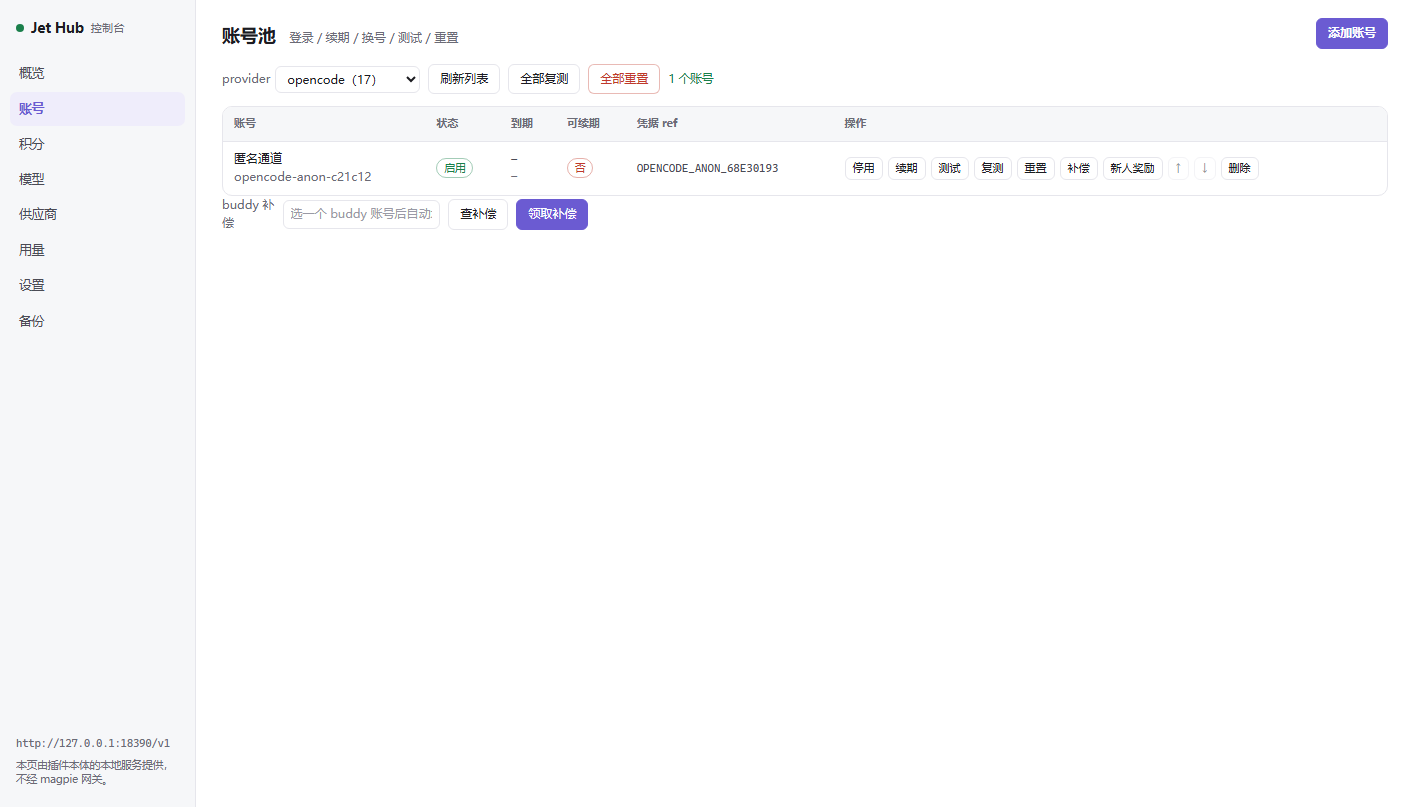
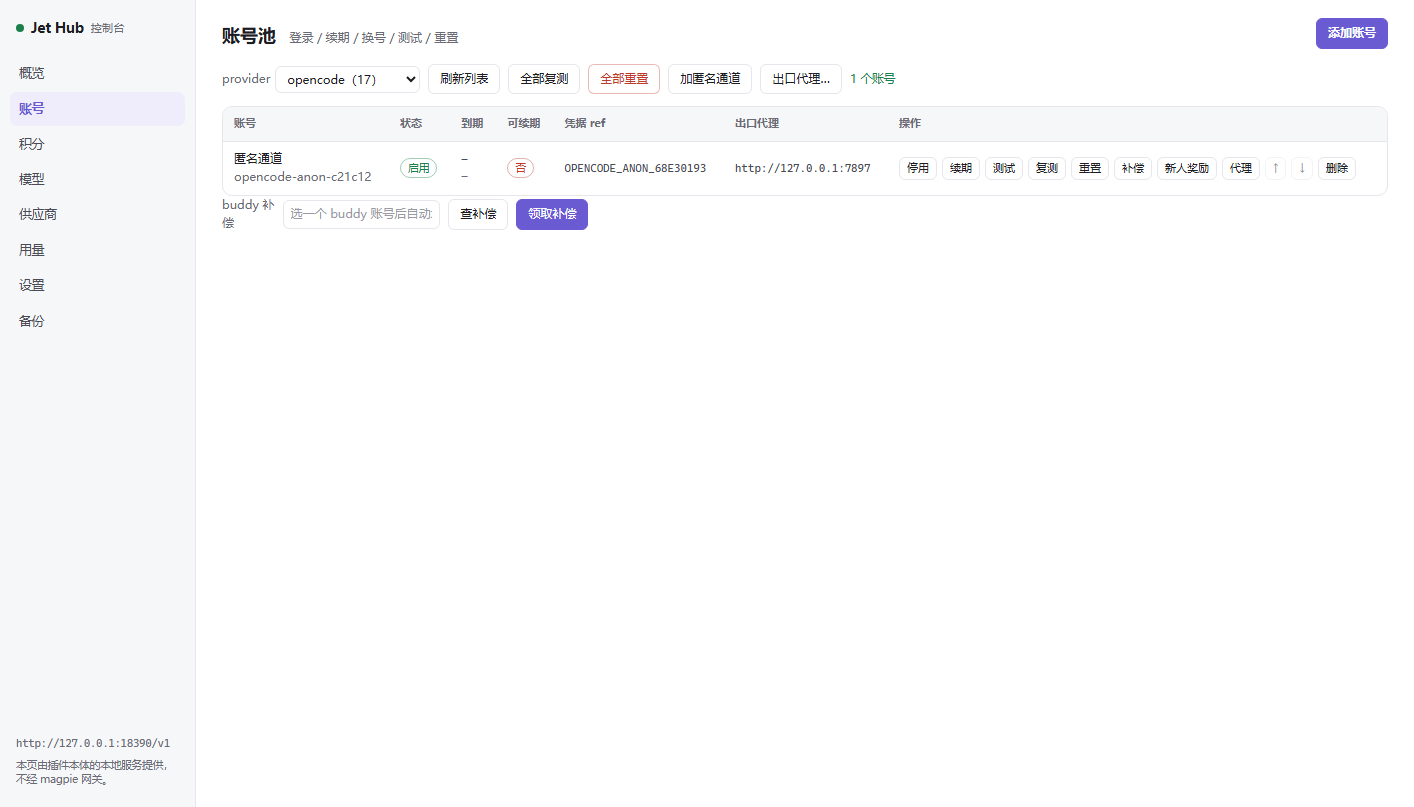
feat(console): 补 9 个缺口方法 —— 出口代理弹窗、匿名通道、六家中路列
76/78 那档（口径：本体 78 个 RPC 方法，控制台接 76，刻意不接
opencode.rotateFingerprint / modelscope.setApiKey）。

- 八个 *.setProxy / *.testProxy：新增 PROXY_CHANNELS（opencode / gemini /
  qoder / qodercn / minimaxintl），账号 bar 的「出口代理…」按 provider 显隐，
  弹窗内可选账号或直填 accountId，写走 setProxy、探活走 testProxy。
  qodercn 复用 qoder 的池字段（前缀改道只认 `qoder.`），只有 testProxy 要
  把 provider 传 qodercn 才选中国站产品（qoder-rpc.js:56 productOf）。
- 账号表新增第 6 列「出口代理」，值直接读 account.list 透传的池字段
  （opencodeProxy / geminiProxy / qoderProxy / minimaxIntlProxy），不需要新读端点。
  清除时代理走 setProxy 空串，本体侧删键而非写空串。
- opencode.addAnonymous：「加匿名通道」按钮，只在 opencode 下可见。
- 注释里 opencode / modelscope 的 Key 复用口径按实测收紧：modelscope 命中同 id
  直接 existed:true，opencode 在 opencode-rpc.js:272-302 有 2026-10-25 审计修正，
  同 id 但凭据读不出来会覆盖写并回 existed:false，所以不写「一定复用」。
- shot-console.cjs 增出口代理断言（五个 provider 的按钮显隐、列、弹窗、回填值、
  四个按钮），只发必被拒的 ftp:// 探活，不落任何池字段。

自检：node scripts/shot-console.cjs 退出码 0，八标签全渲染，页面 JS 报错（无），
Key 弹窗断言通过，代理断言通过。

diff --git a/console/console.js b/console/console.js
@@ -196,6 +196,7 @@ async function loadAccounts() {
   try {
     ACC = (await rpc('account.list', { provider }))?.accounts ?? []
     renderAccounts()
+    syncProxyButtons()
     say('#accMsg', `${ACC.length} 个账号`, 'ok')
   } catch (e) {
     say('#accMsg', String(e.message ?? e), 'err')
@@ -203,15 +204,24 @@ async function loadAccounts() {
 }
 
 function renderAccounts() {
+  const provider = $('#accProvider').value
+  const px = PROXY_CHANNELS[provider]
   const rows = ACC.map((a, i) => {
     const dead = a.refreshable === false && typeof a.expiresAt === 'number' && a.expiresAt < Date.now()
     const status = a.enabled === false ? '<span class="pill off">停用</span>' : '<span class="pill on">启用</span>'
+    // 代理值直接从 account.list 透传的池字段读（不需要额外的读端点）。
+    // 四家的字段名不同，所以由 PROXY_CHANNELS[provider].field 决定读哪个。
+    const proxyVal = px && typeof a[px.field] === 'string' ? a[px.field] : ''
+    const proxyCell = !px
+      ? '<td class="muted">—</td>'
+      : `<td class="mono">${proxyVal ? esc(proxyVal) : '<span class="muted">直连</span>'}</td>`
     return `<tr>
       <td>${esc(a.nickname ?? a.id)}<div class="muted mono">${esc(a.id)}</div></td>
       <td>${status}${dead ? ' <span class="pill warn">死号</span>' : ''}</td>
       <td class="mono">${esc(fmtTime(a.expiresAt))}<div class="muted">${esc(relTime(a.expiresAt))}</div></td>
       <td>${a.refreshable === false ? '<span class="pill off">否</span>' : '<span class="pill on">是</span>'}</td>
       <td class="mono muted">${esc(a.credentialRef ?? '—')}</td>
+      ${proxyCell}
       <td><div class="ops">
         <button data-act="toggle" data-id="${esc(a.id)}">${a.enabled === false ? '启用' : '停用'}</button>
         <button data-act="refresh" data-id="${esc(a.id)}">续期</button>
@@ -220,14 +230,15 @@ function renderAccounts() {
         <button data-act="reset" data-id="${esc(a.id)}">重置</button>
         <button data-act="comp" data-id="${esc(a.id)}">补偿</button>
         <button data-act="onboard" data-id="${esc(a.id)}">新人奖励</button>
+        ${px ? `<button data-act="proxy" data-id="${esc(a.id)}">代理</button>` : ''}
         <button data-act="up" data-id="${esc(a.id)}" ${i === 0 ? 'disabled' : ''}>↑</button>
         <button data-act="down" data-id="${esc(a.id)}" ${i === ACC.length - 1 ? 'disabled' : ''}>↓</button>
         <button data-act="del" data-id="${esc(a.id)}">删除</button>
       </div></td>
     </tr>`
   })
-  $('#accTable').innerHTML = `<thead><tr><th>账号</th><th>状态</th><th>到期</th><th>可续期</th><th>凭据 ref</th><th>操作</th></tr></thead><tbody>${
-    rows.join('') || '<tr><td colspan="6" class="muted">这个 provider 下还没有账号</td></tr>'
+  $('#accTable').innerHTML = `<thead><tr><th>账号</th><th>状态</th><th>到期</th><th>可续期</th><th>凭据 ref</th><th>出口代理</th><th>操作</th></tr></thead><tbody>${
+    rows.join('') || '<tr><td colspan="7" class="muted">这个 provider 下还没有账号</td></tr>'
   }</tbody>`
 }
 
@@ -273,6 +284,9 @@ async function onAccAction(e) {
           const c = await rpc('onboarding.claim', { provider, accountId: id })
           renderGeneric($('#accDetail'), c)
         }
+        return
+      } else if (act === 'proxy') {
+        openProxyModal(provider, id)
         return
       } else if (act === 'del') {
         if (!confirm(`删除账号 ${id}？凭据也会一起清掉。`)) return
@@ -345,8 +359,10 @@ function closeLogin() {
  * （实测传 provider:'modelscope' / 'opencode' 回 `unknown provider: xxx`），
  * 只能走各自的前缀改道方法 `*.addAccount`。
  *
- * 官方客户端也这么选：vendor/lib/client/jet-hub.js 的 createAccount() 在第 8072
- * 行（opencode）和第 8076 行（modelscope）都提前 `setKeyModal(...)` 然后 return，
+ * 官方客户端也这么选：vendor/lib/client/jet-hub.js 的 createAccount() 在
+ * `vendor/lib/client/jet-hub.js:8073`（`if (provider === "opencode")`）与
+ * `:8077`（`if (provider === "modelscope")`）两处都提前调
+ * `setKeyModal({ provider, error: "" })`（分别在 `:8074` / `:8078`）然后 return，
  * 根本不到 account.create —— 补 create 分支等于让一个「建占位号 + 回 loginUrl +
  * login.poll 轮询」的方法再长出两套没有 poll 的语义，还得把两份 KEY_PATTERN
  * 校验复制一遍。控制台自己的入口自己的坑自己填，不动 src/。
@@ -362,7 +378,11 @@ const KEY_CHANNELS = {
   },
   opencode: {
     method: 'opencode.addAccount',
-    hint: 'OpenCode Zen 的 Key，20 位以上、不含空格。同一把 Key 重复添加会复用同一条账号。',
+    // 与 modelscope 的口径**刻意不同**：modelscope 命中同 id 就直接回 existed:true
+    // （modelscope-rpc.js:95），而 opencode 在 opencode-rpc.js:272-302 有 2026-10-25
+    // 审计后的修正 —— 同 id 但凭据读不出来（坏槽）会**覆盖写**并如实回 existed:false。
+    // 所以这里不能像上面那样许诺「重复添加一定复用」。
+    hint: 'OpenCode Zen 的 Key，20 位以上、不含空格。同一把 Key 重复添加会复用同一条账号；若那条账号的凭据已读不出来（坏槽），会覆盖写并如实回报为新建。',
     where: 'https://opencode.ai/console/account',
   },
 }
@@ -409,6 +429,172 @@ async function submitKeyAccount(btn) {
     })
   } catch (e) {
     say('#kmMsg', String(e.message ?? e), 'err')
+  }
+}
+
+/* ══════════ 出口代理（per-账号，四家各自的端点与池字段） ══════════
+ *
+ * 本体把四家**刻意写成四份实现、四个池字段**（vendor/lib/account-pool.js：
+ * setOpencodeProxy / setGeminiProxy / setQoderProxy / setMinimaxIntlProxy），
+ * 因为语义不同：opencode = 分份额度（匿名通道按出口 IP 限额）、Gemini =
+ * 能不能连通（全部端点都在墙外）、Qoder = 绕开 openapi.qoder.sh 的 SNI 阻断、
+ * MiniMax 国际站 = 绕开地域分流。共用一份会让「清掉 Gemini 的代理」连带清掉
+ * opencode 的出口配置 —— 所以界面上也分开，一个 provider 一个端点。
+ *
+ * ⚠ **读代理不需要新 RPC**：`account.list` 的 listAccounts 只做 `{...entry}`
+ * 浅拷贝，池字段原样透传（实测 opencode 那条回 `"opencodeProxy":
+ * "http://127.0.0.1:7897"`）。写走各家 `*.setProxy`；**空串 = 删键回直连**
+ * （池侧 `delete entry.xxxProxy`，不是写空串 —— 否则下游会把空串当成
+ * 「配了一个空地址」）。
+ *
+ * ⚠ `qodercn` 没有自己的 `qodercn.setProxy`：前缀改道只认 `qoder.`
+ * （vendor/lib/jet-hub-rpc.js:2936 `method.startsWith('qoder.')`，而
+ * `'qodercn.setProxy'.startsWith('qoder.')` 为 false）。但 `setQoderProxy`
+ * 是按 accountId 定位的，所以中国版账号照样能设；只有 `testProxy` 需要把
+ * `provider` 传 `qodercn` 才会选到中国站产品（qoder-rpc.js:56 productOf）。
+ */
+const PROXY_CHANNELS = {
+  opencode: {
+    setProxy: 'opencode.setProxy',
+    testProxy: 'opencode.testProxy',
+    field: 'opencodeProxy',
+    hint: 'OpenCode 的出口。要 http/https/socks5 **且带端口**（裸 host:port 会补成 http://）。清空即回本机出口。注意：匿名通道按出口 IP 限额，多要份额度得给不同通道配不同代理，换指纹不增加配额。',
+  },
+  gemini: {
+    setProxy: 'gemini.setProxy',
+    testProxy: 'gemini.testProxy',
+    field: 'geminiProxy',
+    hint: 'Gemini 全部端点都在墙外，而插件进程**不走系统代理**，只能在这里给账号单独配。测试只要拿到 HTTP 响应就算通（400 invalid_request 也算），不判状态码。',
+  },
+  qoder: {
+    setProxy: 'qoder.setProxy',
+    testProxy: 'qoder.testProxy',
+    field: 'qoderProxy',
+    testProvider: 'qoder',
+    hint: '国际版 openapi.qoder.sh 会被 SNI 阻断。中国版本来直连就快，别一起塞进代理。测试不判状态码：401/403 同样证明链路通。',
+  },
+  qodercn: {
+    setProxy: 'qoder.setProxy',
+    testProxy: 'qoder.testProxy',
+    field: 'qoderProxy',
+    testProvider: 'qodercn',
+    hint: '中国版账号的代理写在本体同一份 qoder 池字段里（qoder.setProxy 按 accountId 定位，没有单独的 qodercn.setProxy）。测试时传 provider=qodercn 才会选中国站产品。',
+  },
+  minimaxintl: {
+    setProxy: 'minimaxintl.setProxy',
+    testProxy: 'minimaxintl.testProxy',
+    field: 'minimaxIntlProxy',
+    hint: 'MiniMax 国际站的出口。测试用 redirect:manual 看那一跳 307 判有没有被分流 —— 跟随之后 401 与「凭据失效」逐字同形，事后分不清。',
+  },
+}
+
+function syncProxyButtons() {
+  const provider = $('#accProvider').value
+  const anon = $('#accAnon')
+  if (anon) anon.hidden = provider !== 'opencode'
+  const px = $('#accProxy')
+  if (px) px.hidden = !PROXY_CHANNELS[provider]
+}
+
+/** 当前代理弹窗里的 accountId：下拉优先，其次手填框。 */
+function proxyAccountId() {
+  return (($('#pxAccount').value || $('#pxAccountId').value) ?? '').trim()
+}
+
+function fillProxyAccounts(provider, preferId) {
+  const sel = $('#pxAccount')
+  const opts = ACC.map((a) => `<option value="${esc(a.id)}">${esc(a.nickname ?? a.id)}</option>`).join('')
+  sel.innerHTML = opts || '<option value="">（这个 provider 下没有账号）</option>'
+  const want = preferId || ACC[0]?.id
+  if (want && ACC.some((a) => a.id === want)) sel.value = want
+}
+
+/** 把选中账号的当前代理回填进输入框（值来自 account.list 透传的池字段）。 */
+function prefillProxyValue() {
+  const provider = $('#pxProvider').textContent
+  const cfg = PROXY_CHANNELS[provider]
+  const id = proxyAccountId()
+  const acc = ACC.find((a) => a.id === id)
+  $('#pxProxy').value = (cfg && acc && typeof acc[cfg.field] === 'string') ? acc[cfg.field] : ''
+}
+
+function openProxyModal(provider, accountId) {
+  const cfg = PROXY_CHANNELS[provider]
+  if (!cfg) throw new Error(`没有代理端点的 provider：${provider}`)
+  $('#pxProvider').textContent = provider
+  $('#pxHint').textContent = cfg.hint
+  $('#pxAccountId').value = accountId && !ACC.some((a) => a.id === accountId) ? accountId : ''
+  fillProxyAccounts(provider, accountId)
+  prefillProxyValue()
+  say('#pxMsg', '')
+  $('#pxOut').innerHTML = ''
+  $('#proxyModal').hidden = false
+}
+
+function closeProxyModal() {
+  $('#proxyModal').hidden = true
+  say('#pxMsg', '')
+}
+
+/** 测试连接：只要 `{proxy}`（qoder 另收 provider 选产品），不要 accountId。 */
+async function proxyTest(btn) {
+  const provider = $('#pxProvider').textContent
+  const cfg = PROXY_CHANNELS[provider]
+  const proxy = $('#pxProxy').value.trim()
+  if (!proxy) {
+    say('#pxMsg', '先填代理地址；要回直连请点「清除」', 'err')
+    return
+  }
+  try {
+    await busy(btn, async () => {
+      const payload = cfg.testProvider ? { proxy, provider: cfg.testProvider } : { proxy }
+      const v = await rpc(cfg.testProxy, payload)
+      renderGeneric($('#pxOut'), v)
+      // 四家的回包形状各不相同：opencode 要 exitIp，minimaxintl 要 geoRouted，
+      // gemini/qoder 只有 status+latency。逐家读自己那几个字段，别硬套一套文案。
+      let line = `通：${v?.status ?? '—'}`
+      if (typeof v?.latencyMs === 'number') line += `，${v.latencyMs}ms`
+      if (v?.exitIp) line += `，出口 IP ${v.exitIp}${v.country ? `（${v.country}）` : ''}`
+      if (typeof v?.geoRouted === 'boolean') line += v.geoRouted ? '，⚠ 被分流到中国站' : '，未分流'
+      if (v?.host) line += `，目标 ${v.host}`
+      say('#pxMsg', line, 'ok')
+    })
+  } catch (e) {
+    say('#pxMsg', String(e.message ?? e), 'err')
+  }
+}
+
+async function proxyWrite(btn, proxy) {
+  const provider = $('#pxProvider').textContent
+  const cfg = PROXY_CHANNELS[provider]
+  const accountId = proxyAccountId()
+  if (!accountId) {
+    say('#pxMsg', '先选账号或填 accountId（代理是按账号存的）', 'err')
+    return
+  }
+  try {
+    await busy(btn, async () => {
+      const v = await rpc(cfg.setProxy, { accountId, proxy })
+      renderGeneric($('#pxOut'), v)
+      say('#pxMsg', v?.proxy ? `已设为 ${v.label ?? v.proxy}` : '已清除，回直连（本机出口）', 'ok')
+      await loadAccounts()
+      fillProxyAccounts(provider, accountId)
+      prefillProxyValue()
+    })
+  } catch (e) {
+    say('#pxMsg', String(e.message ?? e), 'err')
+  }
+}
+
+async function addAnonymousChannel(btn) {
+  try {
+    await busy(btn, async () => {
+      const v = await rpc('opencode.addAnonymous', {})
+      say('#accMsg', `已加匿名通道 ${v?.accountId ?? ''}（指纹不增加配额；要更多份额度，给它单独配一个出口）`, 'ok')
+    })
+    await loadAccounts()
+  } catch (e) {
+    say('#accMsg', String(e.message ?? e), 'err')
   }
 }
 
@@ -1146,15 +1332,43 @@ async function boot() {
   $('#health').className = 'dot ok'
 
   fillProviderSelects()
+  syncProxyButtons()
   renderOverview()
   wireTabs()
 
   // 账号
   $('#accReload').addEventListener('click', () => loadAccounts())
-  $('#accProvider').addEventListener('change', () => loadAccounts())
+  $('#accProvider').addEventListener('change', () => {
+    syncProxyButtons()
+    loadAccounts()
+  })
   $('#accTable').addEventListener('click', onAccAction)
   $('#accRetestAll').addEventListener('click', (e) => accBulk(e.currentTarget, 'account.retestAll'))
   $('#accResetAll').addEventListener('click', (e) => accBulk(e.currentTarget, 'account.resetAll'))
+  $('#accAnon').addEventListener('click', (e) => addAnonymousChannel(e.currentTarget))
+  $('#accProxy').addEventListener('click', () => {
+    try {
+      openProxyModal($('#accProvider').value)
+    } catch (e) {
+      say('#accMsg', String(e.message ?? e), 'err')
+    }
+  })
+
+  // 出口代理弹窗
+  $('#pxTest').addEventListener('click', (e) => proxyTest(e.currentTarget))
+  $('#pxSave').addEventListener('click', (e) => proxyWrite(e.currentTarget, $('#pxProxy').value.trim()))
+  // 清除 = 传空串（池侧删键回直连）。**不是不传**：不传时 raw 取空串同样走清除，
+  // 但显式传空串能让人在抓包时一眼看出意图。
+  $('#pxClear').addEventListener('click', (e) => proxyWrite(e.currentTarget, ''))
+  $('#pxClose').addEventListener('click', closeProxyModal)
+  $('#pxAccount').addEventListener('change', () => {
+    $('#pxAccountId').value = ''
+    prefillProxyValue()
+  })
+  $('#pxAccountId').addEventListener('input', prefillProxyValue)
+  $('#pxProxy').addEventListener('keydown', (e) => {
+    if (e.key === 'Enter') proxyTest($('#pxTest'))
+  })
   $('#accAdd').addEventListener('click', async () => {
     const provider = $('#accProvider').value
     try {

diff --git a/console/index.html b/console/index.html
@@ -57,6 +57,10 @@
         <button id="accReload">刷新列表</button>
         <button id="accRetestAll">全部复测</button>
         <button id="accResetAll" class="warn">全部重置</button>
+        <!-- 匿名通道只有 opencode 有（本体 opencode.addAnonymous）；别的 provider 下隐藏 -->
+        <button id="accAnon" hidden>加匿名通道</button>
+        <!-- 出口代理只对四家可用（gemini / qoder / minimaxintl / opencode）；别的 provider 下隐藏 -->
+        <button id="accProxy" hidden>出口代理…</button>
         <span id="accMsg" class="msg"></span>
       </div>
       <div class="tablewrap"><table id="accTable"></table></div>
@@ -249,6 +253,31 @@
       <button id="kmClose">关闭</button>
     </div>
     <div id="kmMsg" class="msg"></div>
+  </div>
+</div>
+
+<!-- 出口代理弹窗：只有 gemini / qoder / minimaxintl / opencode 四家有 *.setProxy / *.testProxy。
+     四家是**各自独立的池字段**（geminiProxy / qoderProxy / minimaxIntlProxy / opencodeProxy），
+     语义不同（opencode 分份额度、Gemini 能不能连通、Qoder 绕 SNI 阻断），所以界面上也不合并。 -->
+<div id="proxyModal" class="modal" hidden>
+  <div class="modal-box">
+    <h2><span id="pxProvider"></span> 出口代理</h2>
+    <p id="pxHint"></p>
+    <div class="bar">
+      <label>账号 <select id="pxAccount"></select></label>
+      <input id="pxAccountId" placeholder="或直接填 accountId" class="grow">
+    </div>
+    <div class="bar">
+      <input id="pxProxy" placeholder="http://127.0.0.1:7897 或 socks5://host:port，留空=直连" class="grow" autocomplete="off" spellcheck="false">
+    </div>
+    <div class="bar">
+      <button id="pxTest">测试连接</button>
+      <button id="pxSave" class="primary">保存</button>
+      <button id="pxClear">清除（回直连）</button>
+      <button id="pxClose">关闭</button>
+    </div>
+    <div id="pxMsg" class="msg"></div>
+    <div id="pxOut"></div>
   </div>
 </div>
 
